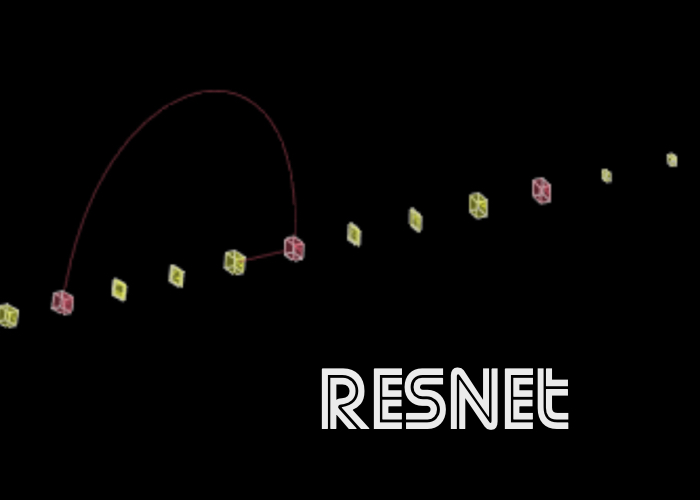
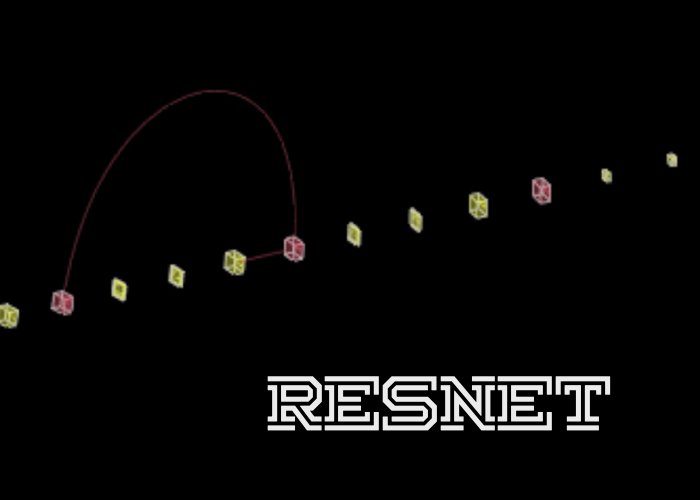
[Index] Change the gallery font and apply it to index and index_zh

Changed region(s): [[0.36, 0.72, 0.87, 0.87]]

diff --git a/index_zh.html b/index_zh.html
@@ -217,13 +217,13 @@
 
                 <div class="card-wrapper">
 
-                    <div id="galleryVgg" class="mdl-card mdl-shadow--2dp">
-                        <a href="html/playground/vgg16_zh.html">
+                    <div id="galleryAcgan" class="mdl-card mdl-shadow--2dp">
+                        <a href="html/playground/acgan_zh.html">
                             <div class="mdl-card__title">
-                                <img class="img33" src="./assets/img/index/gallery_VGG16.jpg">
+                                <img class="img33" src="./assets/img/index/gallery_acgan.jpg">
                             </div>
                             <div class="mdl-card__actions mdl-card--border net-name">
-                                VGG-16
+                                ACGAN
                             </div>
                         </a>
                     </div>

diff --git a/index.html b/index.html
@@ -220,13 +220,13 @@
 
                 <div class="card-wrapper">
 
-                    <div id="galleryVgg" class="mdl-card mdl-shadow--2dp">
-                        <a href="html/playground/vgg16.html">
+                    <div id="galleryAcgan" class="mdl-card mdl-shadow--2dp">
+                        <a href="html/playground/acgan.html">
                             <div class="mdl-card__title">
-                                <img class="img33" src="./assets/img/index/gallery_VGG16.jpg">
+                                <img class="img33" src="./assets/img/index/gallery_acgan.jpg">
                             </div>
                             <div class="mdl-card__actions mdl-card--border net-name">
-                                VGG-16
+                                ACGAN
                             </div>
                         </a>
                     </div>

diff --git a/js/index.js b/js/index.js
@@ -48,10 +48,10 @@ $(function() {
 		$(this).find(".img33").attr("src", "./assets/img/index/gallery_yolov2.jpg");
 	});
 
-	$("#galleryVgg").hover(function(){
-		$(this).find(".img33").attr("src", "./assets/img/index/gallery_VGG16.gif");
+	$("#galleryAcgan").hover(function(){
+		$(this).find(".img33").attr("src", "./assets/img/index/gallery_acgan.gif");
 	}, function(){
-		$(this).find(".img33").attr("src", "./assets/img/index/gallery_VGG16.jpg");
+		$(this).find(".img33").attr("src", "./assets/img/index/gallery_acgan.jpg");
 	});
 
 	$("#galleryResnet").hover(function(){
